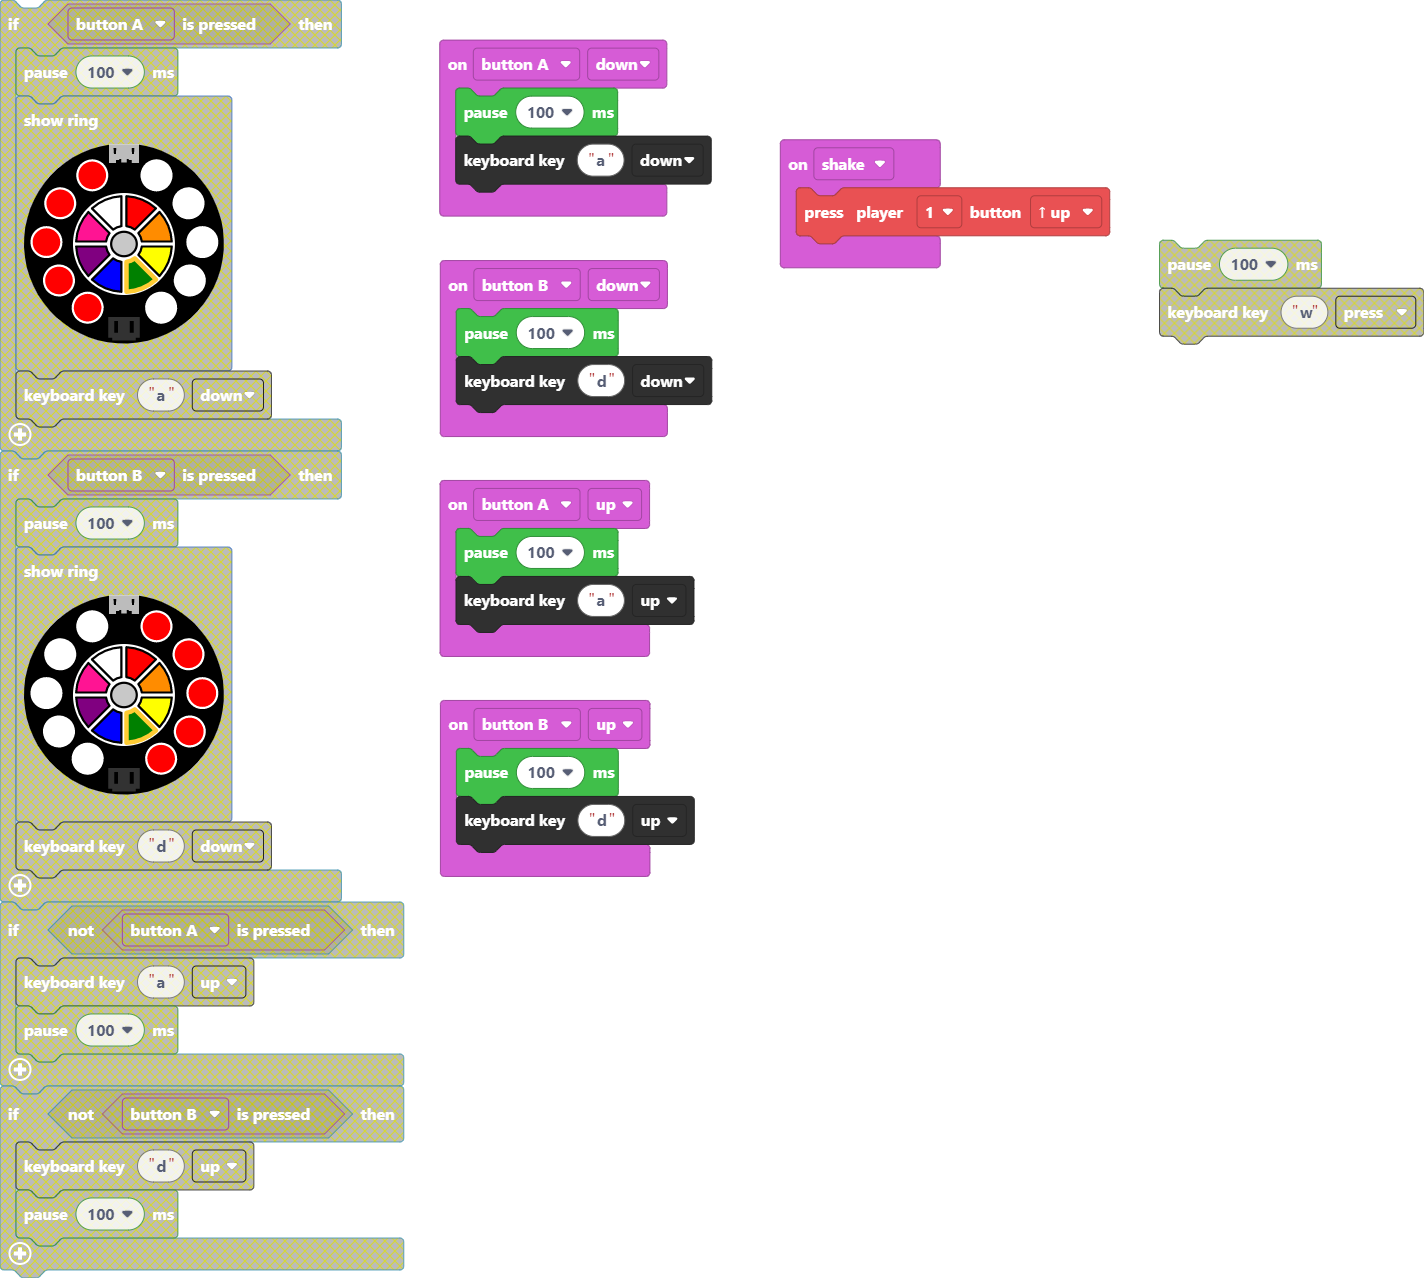
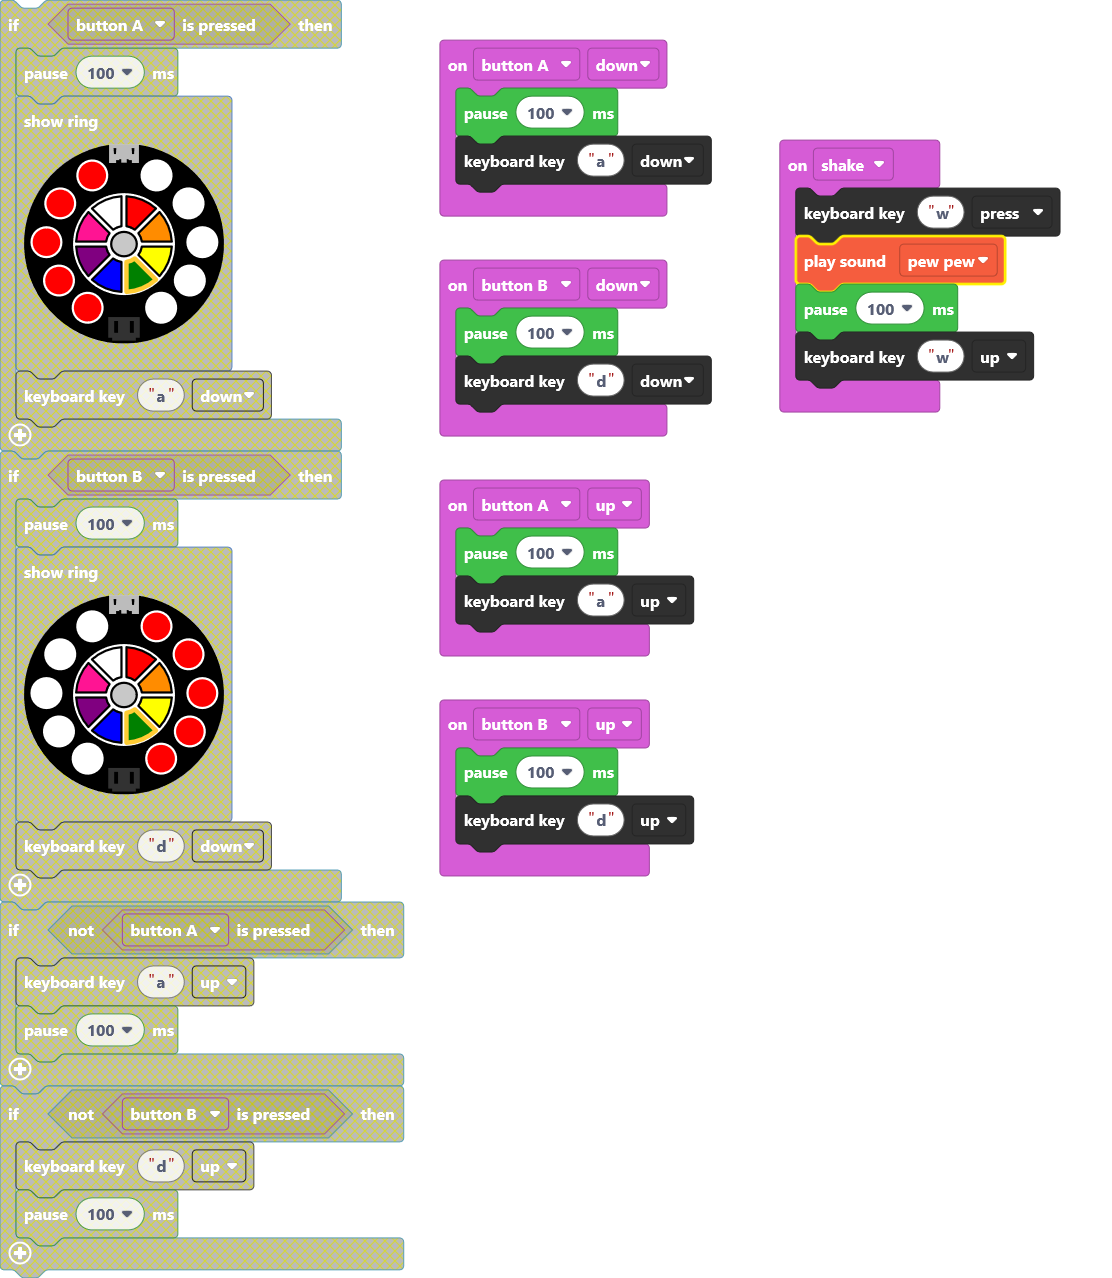
Update main.blocks, main.ts

diff --git a/main.ts b/main.ts
@@ -11,7 +11,10 @@ input.buttonA.onEvent(ButtonEvent.Up, function () {
     keyboard.key("a", KeyboardKeyEvent.Up)
 })
 input.onGesture(Gesture.Shake, function () {
-    makerController.player1.press(ArcadeButton.Up)
+    keyboard.key("w", KeyboardKeyEvent.Press)
+    music.pewPew.play()
+    pause(100)
+    keyboard.key("w", KeyboardKeyEvent.Up)
 })
 input.buttonB.onEvent(ButtonEvent.Up, function () {
     pause(100)
